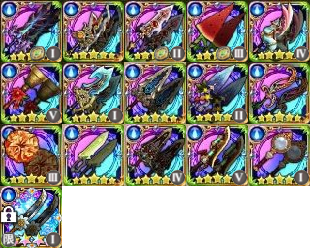
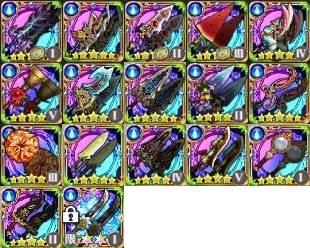
Update

Changed region(s): [[0.0, 0.7339, 0.4065, 1.0]]

diff --git a/docs/list-weapons.md b/docs/list-weapons.md
@@ -106,6 +106,7 @@ EQ | Name | Slot | Auto | Special
 <img src="https://raw.githubusercontent.com/caelumff/bdfeguides/master/icons/KNG2-13.jpg" width="60" alt="Sword"> | <a href="list-names.md#-bravely-default-praying-brage">Ruin</a> | 4 |  -  | Fire AoE Taunt<br><img src="https://caelum.s-ul.eu/7tZLFGPP.png" width="25" alt="Slot Effect"> Debuff Extend<br>
 <img src="https://raw.githubusercontent.com/caelumff/bdfeguides/master/icons/KNG2-14.jpg" width="60" alt="Sword"> | <a href="list-names.md#-steampunk">Antique</a> | 5 | Row Buff<br> | Mono Phalanx 3<br><img src="https://caelum.s-ul.eu/7tZLFGPP.png" width="25" alt="Slot Effect"> Testudo 1<br>
 <img src="https://raw.githubusercontent.com/caelumff/bdfeguides/master/icons/KNG2-15.jpg" width="60" alt="Sword"> | <a href="list-names.md#-detective">Detective</a> | 1 |  -  | Command 2<br>Aggro<br><img src="https://caelum.s-ul.eu/7tZLFGPP.png" width="25" alt="Slot Effect"> Saving 1<br>
+<img src="https://raw.githubusercontent.com/caelumff/bdfeguides/master/icons/KNG2-16.jpg" width="60" alt="Sword"> | <a href="list-names.md#-one-thousand-and-one-nights">One Thousand and One Nights</a> | 2 |  -  | Mono Regen 3<br>Water Reload<br><img src="https://caelum.s-ul.eu/7tZLFGPP.png" width="25" alt="Slot Effect"> Phalanx 1<br>
 <img src="https://raw.githubusercontent.com/caelumff/bdfeguides/master/icons/Valkyrie1.jpg" width="60" alt="Sword"> | **[LIMITED]** <a href="list-names.md#-valkyrie-profile">Valkyrie</a> | 1 |  -  | Phalanx 1<br>Allies Aggro<br>
 
 ## <img src="https://caelum.s-ul.eu/hLKNs6KH.png" width="25" alt="Earth"> Earth Swords
@@ -167,7 +168,7 @@ EQ | Name | Slot | Auto | Special
 <img src="https://raw.githubusercontent.com/caelumff/bdfeguides/master/icons/BLM1-11.jpg" width="60" alt="Rod"> | <a href="list-names.md#-japan-folklore">Turtle</a> | 3 |  -  | Magic Barrier<br>Limit Break 1<br>
 <img src="https://raw.githubusercontent.com/caelumff/bdfeguides/master/icons/BLM1-12.jpg" width="60" alt="Rod"> | <a href="list-names.md#-lotus">Lotus</a> | 4 | AoE<br> | 3 Hit<br>Nuke<br>Critical 2<br>
 <img src="https://raw.githubusercontent.com/caelumff/bdfeguides/master/icons/BLM1-13.jpg" width="60" alt="Rod"> | <a href="list-names.md#-retro-modern">Soda</a> | 5 |  -  | Empower 2<br><img src="https://caelum.s-ul.eu/7tZLFGPP.png" width="25" alt="Slot Effect"> Limit Break 1<br>
-<img src="https://raw.githubusercontent.com/caelumff/bdfeguides/master/icons/BLM1-14.jpg" width="60" alt="Rod"> | <a href="list-names.md#-eastern-mystery">Onmyouji</a> | 1 |  -  | Limit Break 3<br>Reload Minus<br><img src="https://caelum.s-ul.eu/7tZLFGPP.png" width="25" alt="Slot Effect"> Critical 1<br>
+<img src="https://raw.githubusercontent.com/caelumff/bdfeguides/master/icons/BLM1-14.jpg" width="60" alt="Rod"> | <a href="list-names.md#-eastern-mystery">Onmyouji</a> | 1 | Buff<br> | Limit Break 3<br>Reload Minus<br><img src="https://caelum.s-ul.eu/7tZLFGPP.png" width="25" alt="Slot Effect"> Critical 1<br>
 <img src="https://raw.githubusercontent.com/caelumff/bdfeguides/master/icons/Rose2.jpg" width="60" alt="Rod"> | **[LIMITED]** <a href="list-names.md#-rose">Rose</a> | 0 |  -  | Magic Barrier<br>
 <img src="https://raw.githubusercontent.com/caelumff/bdfeguides/master/icons/Fairy2.jpg" width="60" alt="Rod"> | **[LIMITED]** <a href="list-names.md#-1st-anniversary">Fairy</a> | 1 | Buff<br> | Critical 2<br>Magic Barrier<br>
 
@@ -190,6 +191,7 @@ EQ | Name | Slot | Auto | Special
 <img src="https://raw.githubusercontent.com/caelumff/bdfeguides/master/icons/BLM2-13.jpg" width="60" alt="Rod"> | <a href="list-names.md#-bravely-default-praying-brage">Ruin</a> | 4 | AoE<br> | Limit Break 3<br>
 <img src="https://raw.githubusercontent.com/caelumff/bdfeguides/master/icons/BLM2-14.jpg" width="60" alt="Rod"> | <a href="list-names.md#-steampunk">Antique</a> | 5 | Buff<br> | AoE<br>Empower 2<br><img src="https://caelum.s-ul.eu/7tZLFGPP.png" width="25" alt="Slot Effect"> Limit Break 1<br>
 <img src="https://raw.githubusercontent.com/caelumff/bdfeguides/master/icons/BLM2-15.jpg" width="60" alt="Rod"> | <a href="list-names.md#-detective">Detective</a> | 1 |  -  | 3 Hit<br>Critical 3<br><img src="https://caelum.s-ul.eu/7tZLFGPP.png" width="25" alt="Slot Effect"> Critical 1<br>
+<img src="https://raw.githubusercontent.com/caelumff/bdfeguides/master/icons/BLM2-16.jpg" width="60" alt="Rod"> | <a href="list-names.md#-one-thousand-and-one-nights">One Thousand and One Nights</a> | 2 |  -  | 3 Hit<br>MA/MD<br><img src="https://caelum.s-ul.eu/7tZLFGPP.png" width="25" alt="Slot Effect"> Limit Break 1<br>
 <img src="https://raw.githubusercontent.com/caelumff/bdfeguides/master/icons/Valkyrie2.jpg" width="60" alt="Rod"> | **[LIMITED]** <a href="list-names.md#-valkyrie-profile">Valkyrie</a> | 1 | AoE<br> | Rapid DPS<br>
 
 ## <img src="https://caelum.s-ul.eu/hLKNs6KH.png" width="25" alt="Earth"> Earth Rods
@@ -251,7 +253,7 @@ EQ | Name | Slot | Auto | Special
 <img src="https://raw.githubusercontent.com/caelumff/bdfeguides/master/icons/WHM1-11.jpg" width="60" alt="Book"> | <a href="list-names.md#-japan-folklore">Tamatebako</a> | 3 | Buff<br> | Haste 2<br>Cleanse<br>
 <img src="https://raw.githubusercontent.com/caelumff/bdfeguides/master/icons/WHM1-12.jpg" width="60" alt="Book"> | <a href="list-names.md#-lotus">Lotus</a> | 4 |  -  | 2 Row Heal<br>Mono Revive<br><img src="https://caelum.s-ul.eu/7tZLFGPP.png" width="25" alt="Slot Effect"> BP Recovery<br>
 <img src="https://raw.githubusercontent.com/caelumff/bdfeguides/master/icons/WHM1-13.jpg" width="60" alt="Book"> | <a href="list-names.md#-retro-modern">Coffee</a> | 5 |  -  | Heal<br>PA/PD/MA/MD Up<br><img src="https://caelum.s-ul.eu/7tZLFGPP.png" width="25" alt="Slot Effect"> Mind 1<br>
-<img src="https://raw.githubusercontent.com/caelumff/bdfeguides/master/icons/WHM1-14.jpg" width="60" alt="Book"> | <a href="list-names.md#-eastern-mystery">Onmyouji</a> | 1 |  -  | Mono Brave 2<br>Quick 2<br><img src="https://caelum.s-ul.eu/7tZLFGPP.png" width="25" alt="Slot Effect"> Self Proud 1<br>
+<img src="https://raw.githubusercontent.com/caelumff/bdfeguides/master/icons/WHM1-14.jpg" width="60" alt="Book"> | <a href="list-names.md#-eastern-mystery">Onmyouji</a> | 1 | 2 Row<br> | Mono Brave 2<br>Quick 2<br><img src="https://caelum.s-ul.eu/7tZLFGPP.png" width="25" alt="Slot Effect"> Self Proud 1<br>
 <img src="https://raw.githubusercontent.com/caelumff/bdfeguides/master/icons/Rose3.jpg" width="60" alt="Book"> | **[LIMITED]** <a href="list-names.md#-rose">Rose</a> | 0 | Attack<br> | Heal Area<br>
 <img src="https://raw.githubusercontent.com/caelumff/bdfeguides/master/icons/Fairy3.jpg" width="60" alt="Book"> | **[LIMITED]** <a href="list-names.md#-1st-anniversary">Fairy</a> | 1 |  -  | Heal<br>Cleanse<br>BP +<br>
 
@@ -273,7 +275,8 @@ EQ | Name | Slot | Auto | Special
 <img src="https://raw.githubusercontent.com/caelumff/bdfeguides/master/icons/WHM2-12.jpg" width="60" alt="Book"> | <a href="list-names.md#-sergeant-keroro">Space Army</a> | 0 |  -  | Heal<br>Mono Default 3<br>
 <img src="https://raw.githubusercontent.com/caelumff/bdfeguides/master/icons/WHM2-13.jpg" width="60" alt="Book"> | <a href="list-names.md#-bravely-default-praying-brage">Ruin</a> | 4 | AoE<br>Attack<br> | AoE Attack<br>Mono Brave/Default 1<br><img src="https://caelum.s-ul.eu/7tZLFGPP.png" width="25" alt="Slot Effect"> BP Recovery<br>
 <img src="https://raw.githubusercontent.com/caelumff/bdfeguides/master/icons/WHM2-14.jpg" width="60" alt="Book"> | <a href="list-names.md#-steampunk">Antique</a> | 5 |  -  | 2 Row Heal<br>Mono Brave 3<br><img src="https://caelum.s-ul.eu/7tZLFGPP.png" width="25" alt="Slot Effect"> Mind 1<br>
-<img src="https://raw.githubusercontent.com/caelumff/bdfeguides/master/icons/WHM2-15.jpg" width="60" alt="Book"> | <a href="list-names.md#-detective">Detective</a> | 1 | Attack<br> | BP Recovery<br>Haste 1<br><img src="https://caelum.s-ul.eu/7tZLFGPP.png" width="25" alt="Slot Effect"> Self Proud 1<br>
+<img src="https://raw.githubusercontent.com/caelumff/bdfeguides/master/icons/WHM2-15.jpg" width="60" alt="Book"> | <a href="list-names.md#-detective">Detective</a> | 1 | Attack<br> | Heal<br>BP Recovery<br>Haste 1<br><img src="https://caelum.s-ul.eu/7tZLFGPP.png" width="25" alt="Slot Effect"> Self Proud 1<br>
+<img src="https://raw.githubusercontent.com/caelumff/bdfeguides/master/icons/WHM2-16.jpg" width="60" alt="Book"> | <a href="list-names.md#-one-thousand-and-one-nights">One Thousand and One Nights</a> | 2 | Buff<br> | Heal<br>Enhance Area 2<br><img src="https://caelum.s-ul.eu/7tZLFGPP.png" width="25" alt="Slot Effect"> Brave 1<br>
 <img src="https://raw.githubusercontent.com/caelumff/bdfeguides/master/icons/Valkyrie3.jpg" width="60" alt="Book"> | **[LIMITED]** <a href="list-names.md#-valkyrie-profile">Valkyrie</a> | 1 |  -  | Heal<br>Revive<br>Heal Area<br>
 
 ## <img src="https://caelum.s-ul.eu/hLKNs6KH.png" width="25" alt="Earth"> Earth Books
@@ -294,7 +297,7 @@ EQ | Name | Slot | Auto | Special
 <img src="https://raw.githubusercontent.com/caelumff/bdfeguides/master/icons/WHM3-12.jpg" width="60" alt="Book"> | <a href="list-names.md#-christmas-2018">Blessing</a> | 4 |  -  | 2 Row Heal<br>BP Recovery<br>
 <img src="https://raw.githubusercontent.com/caelumff/bdfeguides/master/icons/WHM3-13.jpg" width="60" alt="Book"> | <a href="list-names.md#-danmachi">Heavenly</a> | 5 | Attack<br> | Heal<br>Cleanse<br>Default 2<br><img src="https://caelum.s-ul.eu/7tZLFGPP.png" width="25" alt="Slot Effect"> Mind 1<br>
 <img src="https://raw.githubusercontent.com/caelumff/bdfeguides/master/icons/WHM3-14.jpg" width="60" alt="Book"> | <a href="list-names.md#-golden">Golden</a> | 1 | Attack<br> | Heal<br>Enhance Area 2<br><img src="https://caelum.s-ul.eu/7tZLFGPP.png" width="25" alt="Slot Effect"> Self Proud 1<br>
-<img src="https://raw.githubusercontent.com/caelumff/bdfeguides/master/icons/WHM3-15.jpg" width="60" alt="Book"> | <a href="list-names.md#-sangoku">Sangoku</a> | 2 |  -  | Mono Default 3<br>Quick 2<br><img src="https://caelum.s-ul.eu/7tZLFGPP.png" width="25" alt="Slot Effect"> Self Default 1<br>
+<img src="https://raw.githubusercontent.com/caelumff/bdfeguides/master/icons/WHM3-15.jpg" width="60" alt="Book"> | <a href="list-names.md#-sangoku">Sangoku</a> | 2 | Attack<br> | Mono Default 3<br>Quick 2<br><img src="https://caelum.s-ul.eu/7tZLFGPP.png" width="25" alt="Slot Effect"> Self Default 1<br>
 
 ## <img src="https://caelum.s-ul.eu/d7KNBOoa.png" width="25" alt="Wind"> Wind Books
 
@@ -313,7 +316,7 @@ EQ | Name | Slot | Auto | Special
 <img src="https://raw.githubusercontent.com/caelumff/bdfeguides/master/icons/WHM4-11.jpg" width="60" alt="Book"> | <a href="list-names.md#-grimms-notes-repage">Legend</a> | 0 | 2 Row<br> | Heal<br>PA/PD/MA/MD Up<br>
 <img src="https://raw.githubusercontent.com/caelumff/bdfeguides/master/icons/WHM4-12.jpg" width="60" alt="Book"> | <a href="list-names.md#-valentines-2019">Choco</a> | 4 | Buff<br> | 2 Row<br>HP/BP Up<br><img src="https://caelum.s-ul.eu/7tZLFGPP.png" width="25" alt="Slot Effect"> BP Recovery<br>
 <img src="https://raw.githubusercontent.com/caelumff/bdfeguides/master/icons/WHM4-13.jpg" width="60" alt="Book"> | <a href="list-names.md#-dress-up">Dress Up</a> | 5 | Attack<br> | Attack<br>Mono Brave/Default 1<br>Mono Quick 2<br>
-<img src="https://raw.githubusercontent.com/caelumff/bdfeguides/master/icons/WHM4-14.jpg" width="60" alt="Book"> | <a href="list-names.md#-wonderland">Wonderland</a> | 1 |  -  | 2 Row Heal<br>Mono Revive<br>Mono PA/PD/SP Up<br><img src="https://caelum.s-ul.eu/7tZLFGPP.png" width="25" alt="Slot Effect"> Self Proud 1<br>
+<img src="https://raw.githubusercontent.com/caelumff/bdfeguides/master/icons/WHM4-14.jpg" width="60" alt="Book"> | <a href="list-names.md#-wonderland">Wonderland</a> | 1 | 2 Row<br> | 2 Row Heal<br>Mono Revive<br>Mono PA/PD/SP Up<br><img src="https://caelum.s-ul.eu/7tZLFGPP.png" width="25" alt="Slot Effect"> Self Proud 1<br>
 <img src="https://raw.githubusercontent.com/caelumff/bdfeguides/master/icons/Chocobo3.jpg" width="60" alt="Book"> | **[LIMITED]** <a href="list-names.md#-final-fantasy-brave-exvius">Chocobo</a> | 1 |  -  | Heal<br>Brave 1<br>Default 1<br>
 <img src="https://raw.githubusercontent.com/caelumff/bdfeguides/master/icons/Rinne3.jpg" width="60" alt="Book"> | **[LIMITED]** <a href="list-names.md#-2nd-anniversary">Rinne</a> | 0 |  -  | Heal<br>Brave 2<br>BP Recovery<br>
 
@@ -348,7 +351,7 @@ EQ | Name | Slot | Auto | Special
 <img src="https://raw.githubusercontent.com/caelumff/bdfeguides/master/icons/THF2-3.jpg" width="60" alt="Dagger"> | <a href="list-names.md#-evil-eye">Evil Eye</a> | 2 |  -  | Charge<br><img src="https://caelum.s-ul.eu/1IPYTuvl.JPG" width="25" alt="Legend Coin"> PA Up<br>
 <img src="https://raw.githubusercontent.com/caelumff/bdfeguides/master/icons/THF2-4.jpg" width="60" alt="Dagger"> | <a href="list-names.md#-summer-2017">Watermelon</a> | 3 |  -  | Dodge 2<br><img src="https://caelum.s-ul.eu/1IPYTuvl.JPG" width="25" alt="Legend Coin"> PA Up<br>
 <img src="https://raw.githubusercontent.com/caelumff/bdfeguides/master/icons/THF2-5.jpg" width="60" alt="Dagger"> | <a href="list-names.md#-animal">Squirrel</a> | 4 | 3 Hit<br> | Shadow 2<br>
-<img src="https://raw.githubusercontent.com/caelumff/bdfeguides/master/icons/THF2-6.jpg" width="60" alt="Dagger"> | <a href="list-names.md#-christmas-2017">Bell</a> | 5 | Fast<br> | Assault 1<br>
+<img src="https://raw.githubusercontent.com/caelumff/bdfeguides/master/icons/THF2-6.jpg" width="60" alt="Dagger"> | <a href="list-names.md#-christmas-2017">Bell</a> | 5 | Fast<br> | Assault 1<br><img src="https://caelum.s-ul.eu/7tZLFGPP.png" width="25" alt="Slot Effect"> Shadow 1<br>
 <img src="https://raw.githubusercontent.com/caelumff/bdfeguides/master/icons/THF2-7.jpg" width="60" alt="Dagger"> | <a href="list-names.md#-compass">Compass</a> | 1 | 3 Hit<br> | Shadow 1<br>Assault 1<br><img src="https://caelum.s-ul.eu/7tZLFGPP.png" width="25" alt="Slot Effect"> Quick 1<br>
 <img src="https://raw.githubusercontent.com/caelumff/bdfeguides/master/icons/THF2-8.jpg" width="60" alt="Dagger"> | <a href="list-names.md#-fullmetal-alchemist">Anchemical</a> | 0 |  -  | Shadow 2<br>Quick 2<br>
 <img src="https://raw.githubusercontent.com/caelumff/bdfeguides/master/icons/THF2-9.jpg" width="60" alt="Dagger"> | <a href="list-names.md#-tanabata">Stardust</a> | 2 | Fast 2 Hit<br>Aim 100%<br> | Dodge 2<br>Assault 2<br>
@@ -358,6 +361,7 @@ EQ | Name | Slot | Auto | Special
 <img src="https://raw.githubusercontent.com/caelumff/bdfeguides/master/icons/THF2-13.jpg" width="60" alt="Dagger"> | <a href="list-names.md#-bravely-default-praying-brage">Ruin</a> | 4 | 3 Hit<br>AWK Boost<br> | Row<br>Shadow 1<br>Assault 1<br><img src="https://caelum.s-ul.eu/7tZLFGPP.png" width="25" alt="Slot Effect"> Row Quick 1<br>
 <img src="https://raw.githubusercontent.com/caelumff/bdfeguides/master/icons/THF2-14.jpg" width="60" alt="Dagger"> | <a href="list-names.md#-steampunk">Antique</a> | 5 |  -  | Row Assault 3<br><img src="https://caelum.s-ul.eu/7tZLFGPP.png" width="25" alt="Slot Effect"> Shadow 1<br>
 <img src="https://raw.githubusercontent.com/caelumff/bdfeguides/master/icons/THF2-15.jpg" width="60" alt="Dagger"> | <a href="list-names.md#-detective">Detective</a> | 1 |  -  | Shadow 3<br><img src="https://caelum.s-ul.eu/7tZLFGPP.png" width="25" alt="Slot Effect"> Assault 1<br>
+<img src="https://raw.githubusercontent.com/caelumff/bdfeguides/master/icons/THF2-16.jpg" width="60" alt="Dagger"> | <a href="list-names.md#-one-thousand-and-one-nights">One Thousand and One Nights</a> | 2 | Fast 2 Hit<br> | Dagger Stance<br>
 <img src="https://raw.githubusercontent.com/caelumff/bdfeguides/master/icons/Valkyrie4.jpg" width="60" alt="Dagger"> | **[LIMITED]** <a href="list-names.md#-valkyrie-profile">Valkyrie</a> | 1 |  -  | Nuke<br>Quick 1<br>
 
 ## <img src="https://caelum.s-ul.eu/hLKNs6KH.png" width="25" alt="Earth"> Earth Daggers
@@ -397,7 +401,7 @@ EQ | Name | Slot | Auto | Special
 <img src="https://raw.githubusercontent.com/caelumff/bdfeguides/master/icons/THF4-11.jpg" width="60" alt="Dagger"> | <a href="list-names.md#-grimms-notes-repage">Legend</a> | 0 |  -  | Focus 2<br>
 <img src="https://raw.githubusercontent.com/caelumff/bdfeguides/master/icons/THF4-12.jpg" width="60" alt="Dagger"> | <a href="list-names.md#-valentines-2019">Fondue</a> | 4 | Fast 2 Hit<br>Aim 100%<br>AWK Boost<br> | Dagger Stance<br><img src="https://caelum.s-ul.eu/7tZLFGPP.png" width="25" alt="Slot Effect"> Row Quick 1<br>
 <img src="https://raw.githubusercontent.com/caelumff/bdfeguides/master/icons/THF4-13.jpg" width="60" alt="Dagger"> | <a href="list-names.md#-dress-up">Dress Up</a> | 5 |  -  | Assault 3<br>Cleanse<br><img src="https://caelum.s-ul.eu/7tZLFGPP.png" width="25" alt="Slot Effect"> Shadow 1<br>
-<img src="https://raw.githubusercontent.com/caelumff/bdfeguides/master/icons/THF4-14.jpg" width="60" alt="Dagger"> | <a href="list-names.md#-wonderland">Wonderland</a> | 1 |  -  | 5 Hit Nuke<br>PA/PD Up<br><img src="https://caelum.s-ul.eu/7tZLFGPP.png" width="25" alt="Slot Effect"> Assault 1<br>
+<img src="https://raw.githubusercontent.com/caelumff/bdfeguides/master/icons/THF4-14.jpg" width="60" alt="Dagger"> | <a href="list-names.md#-wonderland">Wonderland</a> | 1 | 3 Hit<br> | 5 Hit Nuke<br>PA/PD Up<br><img src="https://caelum.s-ul.eu/7tZLFGPP.png" width="25" alt="Slot Effect"> Assault 1<br>
 <img src="https://raw.githubusercontent.com/caelumff/bdfeguides/master/icons/Chocobo4.jpg" width="60" alt="Dagger"> | **[LIMITED]** <a href="list-names.md#-final-fantasy-brave-exvius">Chocobo</a> | 1 |  -  | Shadow 1<br>
 <img src="https://raw.githubusercontent.com/caelumff/bdfeguides/master/icons/Rinne4.jpg" width="60" alt="Dagger"> | **[LIMITED]** <a href="list-names.md#-2nd-anniversary">Rinne</a> | 0 |  -  | Dodge 3<br>
 
@@ -442,6 +446,7 @@ EQ | Name | Slot | Auto | Special
 <img src="https://raw.githubusercontent.com/caelumff/bdfeguides/master/icons/RNG2-13.jpg" width="60" alt="Bow"> | <a href="list-names.md#-bravely-default-praying-brage">Ruin</a> | 4 |  -  | Water Chaser 2<br><img src="https://caelum.s-ul.eu/7tZLFGPP.png" width="25" alt="Slot Effect"> Debuff Extend<br>
 <img src="https://raw.githubusercontent.com/caelumff/bdfeguides/master/icons/RNG2-14.jpg" width="60" alt="Bow"> | <a href="list-names.md#-steampunk">Antique</a> | 5 | AoE<br> | AoE<br>Bleed2<br>Poison to Damage<br><img src="https://caelum.s-ul.eu/7tZLFGPP.png" width="25" alt="Slot Effect"> Hawkeye 1<br>
 <img src="https://raw.githubusercontent.com/caelumff/bdfeguides/master/icons/RNG2-15.jpg" width="60" alt="Bow"> | <a href="list-names.md#-detective">Detective</a> | 1 | Buff<br> | AoE<br>PD/MD Down<br>Poison<br><img src="https://caelum.s-ul.eu/7tZLFGPP.png" width="25" alt="Slot Effect"> Slow 1<br>
+<img src="https://raw.githubusercontent.com/caelumff/bdfeguides/master/icons/RNG2-16.jpg" width="60" alt="Bow"> | <a href="list-names.md#-one-thousand-and-one-nights">One Thousand and One Nights</a> | 2 |  -  | AoE<br>Aim/Avo/CR/CP/SP Down<br>Hawkeye 2<br><img src="https://caelum.s-ul.eu/7tZLFGPP.png" width="25" alt="Slot Effect"> Slow 1<br>
 <img src="https://raw.githubusercontent.com/caelumff/bdfeguides/master/icons/Valkyrie5.jpg" width="60" alt="Bow"> | **[LIMITED]** <a href="list-names.md#-valkyrie-profile">Valkyrie</a> | 1 |  -  | Slowcast 1<br>Poison Up 1<br>
 
 ## <img src="https://caelum.s-ul.eu/hLKNs6KH.png" width="25" alt="Earth"> Earth Bows

diff --git a/docs/list-weapons-jp.md b/docs/list-weapons-jp.md
@@ -49,6 +49,7 @@
 <img src="https://raw.githubusercontent.com/caelumff/bdfeguides/master/icons/KNG2-13.jpg" width="60" alt="大剣"> | ルインソード | IV | - | 対火全体挑発<br><img src="https://caelum.s-ul.eu/7tZLFGPP.png" width="25" alt="枠適正"> デバフ延長<br>
 <img src="https://raw.githubusercontent.com/caelumff/bdfeguides/master/icons/KNG2-14.jpg" width="60" alt="大剣"> | 古ノ退剣 | V | 列バフ<br> | 染めファランクス III<br><img src="https://caelum.s-ul.eu/7tZLFGPP.png" width="25" alt="枠適正"> テストゥド I<br>
 <img src="https://raw.githubusercontent.com/caelumff/bdfeguides/master/icons/KNG2-15.jpg" width="60" alt="大剣"> | 正義の大剣 | I | - | 号令 II<br>敵視<br><img src="https://caelum.s-ul.eu/7tZLFGPP.png" width="25" alt="枠適正"> セービング I<br>
+<img src="https://raw.githubusercontent.com/caelumff/bdfeguides/master/icons/KNG2-16.jpg" width="60" alt="大剣"> | 三願の大剣 | II | - | 染めリジェネ III<br>水Reload<br><img src="https://caelum.s-ul.eu/7tZLFGPP.png" width="25" alt="枠適正"> ファランクス I<br>
 <img src="https://raw.githubusercontent.com/caelumff/bdfeguides/master/icons/Valkyrie1.jpg" width="60" alt="大剣"> | **[期間限定]** 魔剣ダインスレイヴ | I | - | ファランクス I<br>自分以外敵視<br>
 
 ## <img src="https://caelum.s-ul.eu/hLKNs6KH.png" width="25" alt="土"> 土大剣
@@ -110,7 +111,7 @@
 <img src="https://raw.githubusercontent.com/caelumff/bdfeguides/master/icons/BLM1-11.jpg" width="60" alt="ロッド"> | 竜宮の海亀 | III | - | マジックバリア<br>リミブレ I<br>
 <img src="https://raw.githubusercontent.com/caelumff/bdfeguides/master/icons/BLM1-12.jpg" width="60" alt="ロッド"> | 蓮の祈提灯 | IV | 全体<br> | 三段<br>防御無視<br>会心 II<br>
 <img src="https://raw.githubusercontent.com/caelumff/bdfeguides/master/icons/BLM1-13.jpg" width="60" alt="ロッド"> | ご注文のくりいむそぉだ | V | - | エンパワー II<br><img src="https://caelum.s-ul.eu/7tZLFGPP.png" width="25" alt="枠適正"> リミブレ I<br>
-<img src="https://raw.githubusercontent.com/caelumff/bdfeguides/master/icons/BLM1-14.jpg" width="60" alt="ロッド"> | 陰祓いの金錫杖 | I | - | リミブレ III<br>リロ減少<br><img src="https://caelum.s-ul.eu/7tZLFGPP.png" width="25" alt="枠適正"> 会心 I<br>
+<img src="https://raw.githubusercontent.com/caelumff/bdfeguides/master/icons/BLM1-14.jpg" width="60" alt="ロッド"> | 陰祓いの金錫杖 | I | バフ<br> | リミブレ III<br>リロ減少<br><img src="https://caelum.s-ul.eu/7tZLFGPP.png" width="25" alt="枠適正"> 会心 I<br>
 <img src="https://raw.githubusercontent.com/caelumff/bdfeguides/master/icons/Rose2.jpg" width="60" alt="ロッド"> | **[期間限定]** 情熱の花束 | 無 | - | マジックバリア<br>
 <img src="https://raw.githubusercontent.com/caelumff/bdfeguides/master/icons/Fairy2.jpg" width="60" alt="ロッド"> | **[期間限定]** フェアリーズ・セプター | I | バフ<br> | 会心 II<br>マジックバリア<br>
 
@@ -133,6 +134,7 @@
 <img src="https://raw.githubusercontent.com/caelumff/bdfeguides/master/icons/BLM2-13.jpg" width="60" alt="ロッド"> | ルインロッド | IV | 全体<br> | リミブレ III<br>
 <img src="https://raw.githubusercontent.com/caelumff/bdfeguides/master/icons/BLM2-14.jpg" width="60" alt="ロッド"> | 古ノ核 | V | バフ<br> | 全体<br>エンパワー II<br><img src="https://caelum.s-ul.eu/7tZLFGPP.png" width="25" alt="枠適正"> リミブレ I<br>
 <img src="https://raw.githubusercontent.com/caelumff/bdfeguides/master/icons/BLM2-15.jpg" width="60" alt="ロッド"> | 真相解明のパイプ | I | - | 三段<br>会心 III<br><img src="https://caelum.s-ul.eu/7tZLFGPP.png" width="25" alt="枠適正"> 会心 I<br>
+<img src="https://raw.githubusercontent.com/caelumff/bdfeguides/master/icons/BLM2-16.jpg" width="60" alt="ロッド"> | 三願の杖 | II | - | 三段<br>魔攻魔防<br><img src="https://caelum.s-ul.eu/7tZLFGPP.png" width="25" alt="枠適正"> リミブレ I<br>
 <img src="https://raw.githubusercontent.com/caelumff/bdfeguides/master/icons/Valkyrie2.jpg" width="60" alt="ロッド"> | **[期間限定]** 聖杖ミリオンテラー | I | 全体<br> | 1秒キャスト<br>
 
 ## <img src="https://caelum.s-ul.eu/hLKNs6KH.png" width="25" alt="土"> 土ロッド
@@ -194,7 +196,7 @@
 <img src="https://raw.githubusercontent.com/caelumff/bdfeguides/master/icons/WHM1-11.jpg" width="60" alt="ブック"> | 竜宮の玉手箱 | III | バフ<br> | ヘイスト II<br>デバフ全解除<br>
 <img src="https://raw.githubusercontent.com/caelumff/bdfeguides/master/icons/WHM1-12.jpg" width="60" alt="ブック"> | 蓮の烈火重 | IV | - | 二列回復<br>染め蘇生<br><img src="https://caelum.s-ul.eu/7tZLFGPP.png" width="25" alt="枠適正"> BP回復<br>
 <img src="https://raw.githubusercontent.com/caelumff/bdfeguides/master/icons/WHM1-13.jpg" width="60" alt="ブック"> | 本日の御品書 | V | - | 回復<br>物攻物防魔攻魔防アップ<br><img src="https://caelum.s-ul.eu/7tZLFGPP.png" width="25" alt="枠適正"> マインド I<br>
-<img src="https://raw.githubusercontent.com/caelumff/bdfeguides/master/icons/WHM1-14.jpg" width="60" alt="ブック"> | 封魔の絵巻 | I | - | 染めブレイブ II<br>クイック II<br><img src="https://caelum.s-ul.eu/7tZLFGPP.png" width="25" alt="枠適正"> 自身プラウド I<br>
+<img src="https://raw.githubusercontent.com/caelumff/bdfeguides/master/icons/WHM1-14.jpg" width="60" alt="ブック"> | 封魔の絵巻 | I | 二列<br> | 染めブレイブ II<br>クイック II<br><img src="https://caelum.s-ul.eu/7tZLFGPP.png" width="25" alt="枠適正"> 自身プラウド I<br>
 <img src="https://raw.githubusercontent.com/caelumff/bdfeguides/master/icons/Rose3.jpg" width="60" alt="ブック"> | **[期間限定]** 情熱の愛書 | 無 | 攻撃<br> | ヒールエリア<br>
 <img src="https://raw.githubusercontent.com/caelumff/bdfeguides/master/icons/Fairy3.jpg" width="60" alt="ブック"> | **[期間限定]** フェアリーズ・グリモア | I | - | 回復<br>デバフ全解除<br>BP +<br>
 
@@ -216,7 +218,8 @@
 <img src="https://raw.githubusercontent.com/caelumff/bdfeguides/master/icons/WHM2-12.jpg" width="60" alt="ブック"> | スペースデッドストック | 無 | - | 回復<br>染めデフォルト III<br>
 <img src="https://raw.githubusercontent.com/caelumff/bdfeguides/master/icons/WHM2-13.jpg" width="60" alt="ブック"> | ルインブック | IV | 全体<br>攻撃<br> | 全体攻撃<br>染めブレイブデフォルト I<br><img src="https://caelum.s-ul.eu/7tZLFGPP.png" width="25" alt="枠適正"> BP回復<br>
 <img src="https://raw.githubusercontent.com/caelumff/bdfeguides/master/icons/WHM2-14.jpg" width="60" alt="ブック"> | イニシエの設計図 | V | - | 二列回復<br>染めブレイブ III<br><img src="https://caelum.s-ul.eu/7tZLFGPP.png" width="25" alt="枠適正"> マインド I<br>
-<img src="https://raw.githubusercontent.com/caelumff/bdfeguides/master/icons/WHM2-15.jpg" width="60" alt="ブック"> | 名探偵の秘密道具 | I | 攻撃<br> | BP回復<br>ヘイスト I<br><img src="https://caelum.s-ul.eu/7tZLFGPP.png" width="25" alt="枠適正"> 自身プラウド I<br>
+<img src="https://raw.githubusercontent.com/caelumff/bdfeguides/master/icons/WHM2-15.jpg" width="60" alt="ブック"> | 名探偵の秘密道具 | I | 攻撃<br> | 回復<br>BP回復<br>ヘイスト I<br><img src="https://caelum.s-ul.eu/7tZLFGPP.png" width="25" alt="枠適正"> 自身プラウド I<br>
+<img src="https://raw.githubusercontent.com/caelumff/bdfeguides/master/icons/WHM2-16.jpg" width="60" alt="ブック"> | 三願の物語 | II | バフ<br> | 回復<br>エンハンスエリア II<br><img src="https://caelum.s-ul.eu/7tZLFGPP.png" width="25" alt="枠適正"> ブレイブ I<br>
 <img src="https://raw.githubusercontent.com/caelumff/bdfeguides/master/icons/Valkyrie3.jpg" width="60" alt="ブック"> | **[期間限定]** 禁呪の書 | I | - | 回復<br>蘇生<br>ヒールエリア<br>
 
 ## <img src="https://caelum.s-ul.eu/hLKNs6KH.png" width="25" alt="土"> 土ブック
@@ -237,7 +240,7 @@
 <img src="https://raw.githubusercontent.com/caelumff/bdfeguides/master/icons/WHM3-12.jpg" width="60" alt="ブック"> | 祝福の聖歌 | IV | - | 二列回復<br>BP回復<br>
 <img src="https://raw.githubusercontent.com/caelumff/bdfeguides/master/icons/WHM3-13.jpg" width="60" alt="ブック"> | ヘブンリーレコード | V | 攻撃<br> | 回復<br>デバフ全解除<br>デフォルト II<br><img src="https://caelum.s-ul.eu/7tZLFGPP.png" width="25" alt="枠適正"> マインド I<br>
 <img src="https://raw.githubusercontent.com/caelumff/bdfeguides/master/icons/WHM3-14.jpg" width="60" alt="ブック"> | 黄金のパピルス | I | 攻撃<br> | 回復<br>エンハンスエリア II<br><img src="https://caelum.s-ul.eu/7tZLFGPP.png" width="25" alt="枠適正"> 自身プラウド I<br>
-<img src="https://raw.githubusercontent.com/caelumff/bdfeguides/master/icons/WHM3-15.jpg" width="60" alt="ブック"> | 軍師の兵法書 | II | - | 染めデフォルト III<br>クイック II<br><img src="https://caelum.s-ul.eu/7tZLFGPP.png" width="25" alt="枠適正"> 自身デフォルト I<br>
+<img src="https://raw.githubusercontent.com/caelumff/bdfeguides/master/icons/WHM3-15.jpg" width="60" alt="ブック"> | 軍師の兵法書 | II | 攻撃<br> | 染めデフォルト III<br>クイック II<br><img src="https://caelum.s-ul.eu/7tZLFGPP.png" width="25" alt="枠適正"> 自身デフォルト I<br>
 
 ## <img src="https://caelum.s-ul.eu/d7KNBOoa.png" width="25" alt="風"> 風ブック
 
@@ -256,7 +259,7 @@
 <img src="https://raw.githubusercontent.com/caelumff/bdfeguides/master/icons/WHM4-11.jpg" width="60" alt="ブック"> | レジェンドグリモア | 無 | 二列<br> | 回復<br>物攻物防魔攻魔防アップ<br>
 <img src="https://raw.githubusercontent.com/caelumff/bdfeguides/master/icons/WHM4-12.jpg" width="60" alt="ブック"> | チョコアソート | IV | バフ<br> | 二列<br>最大HP/BPアップ<br><img src="https://caelum.s-ul.eu/7tZLFGPP.png" width="25" alt="枠適正"> BP回復<br>
 <img src="https://raw.githubusercontent.com/caelumff/bdfeguides/master/icons/WHM4-13.jpg" width="60" alt="ブック"> | 創造の写本 | V | 攻撃<br> | 攻撃<br>染めブレイブデフォルト I<br>染めクイック II<br>
-<img src="https://raw.githubusercontent.com/caelumff/bdfeguides/master/icons/WHM4-14.jpg" width="60" alt="ブック"> | インワンダーランド | I | - | 二列回復<br>染め蘇生<br>染め物攻物防精神アップ<br><img src="https://caelum.s-ul.eu/7tZLFGPP.png" width="25" alt="枠適正"> 自身プラウド I<br>
+<img src="https://raw.githubusercontent.com/caelumff/bdfeguides/master/icons/WHM4-14.jpg" width="60" alt="ブック"> | インワンダーランド | I | 二列<br> | 二列回復<br>染め蘇生<br>染め物攻物防精神アップ<br><img src="https://caelum.s-ul.eu/7tZLFGPP.png" width="25" alt="枠適正"> 自身プラウド I<br>
 <img src="https://raw.githubusercontent.com/caelumff/bdfeguides/master/icons/Chocobo3.jpg" width="60" alt="ブック"> | **[期間限定]** チョコボメモリア | I | - | 回復<br>ブレイブ I<br>デフォルト I<br>
 <img src="https://raw.githubusercontent.com/caelumff/bdfeguides/master/icons/Rinne3.jpg" width="60" alt="ブック"> | **[期間限定]** リンネのキセキ | 無 | - | 回復<br>ブレイブ II<br>BP回復<br>
 
@@ -291,7 +294,7 @@
 <img src="https://raw.githubusercontent.com/caelumff/bdfeguides/master/icons/THF2-3.jpg" width="60" alt="双剣"> | 邪眼ケルクスス | II | - | チャージ<br><img src="https://caelum.s-ul.eu/1IPYTuvl.JPG" width="25" alt="レジェンドコイン"> 物攻アップ<br>
 <img src="https://raw.githubusercontent.com/caelumff/bdfeguides/master/icons/THF2-4.jpg" width="60" alt="双剣"> | 完熟スイカ | III | - | みかわし II<br><img src="https://caelum.s-ul.eu/1IPYTuvl.JPG" width="25" alt="レジェンドコイン"> 物攻アップ<br>
 <img src="https://raw.githubusercontent.com/caelumff/bdfeguides/master/icons/THF2-5.jpg" width="60" alt="双剣"> | 魔栗鼠イリエレール | IV | 三段<br> | シャドウ II<br>
-<img src="https://raw.githubusercontent.com/caelumff/bdfeguides/master/icons/THF2-6.jpg" width="60" alt="双剣"> | ベルズオブセイト | V | 速い<br> | アサルト I<br>
+<img src="https://raw.githubusercontent.com/caelumff/bdfeguides/master/icons/THF2-6.jpg" width="60" alt="双剣"> | ベルズオブセイト | V | 速い<br> | アサルト I<br><img src="https://caelum.s-ul.eu/7tZLFGPP.png" width="25" alt="枠適正"> シャドウ I<br>
 <img src="https://raw.githubusercontent.com/caelumff/bdfeguides/master/icons/THF2-7.jpg" width="60" alt="双剣"> | アクアフックソード | I | 三段<br> | シャドウ I<br>アサルト I<br><img src="https://caelum.s-ul.eu/7tZLFGPP.png" width="25" alt="枠適正"> クイック I<br>
 <img src="https://raw.githubusercontent.com/caelumff/bdfeguides/master/icons/THF2-8.jpg" width="60" alt="双剣"> | アンケミカルクロス | 無 | - | シャドウ II<br>クイック II<br>
 <img src="https://raw.githubusercontent.com/caelumff/bdfeguides/master/icons/THF2-9.jpg" width="60" alt="双剣"> | 星屑の天懐剣 | II | 速い二段<br>必中<br> | みかわし II<br>アサルト II<br>
@@ -301,6 +304,7 @@
 <img src="https://raw.githubusercontent.com/caelumff/bdfeguides/master/icons/THF2-13.jpg" width="60" alt="双剣"> | ルインブレイド | IV | 三段<br>覚醒威力<br> | 列<br>シャドウ I<br>アサルト I<br><img src="https://caelum.s-ul.eu/7tZLFGPP.png" width="25" alt="枠適正"> 列クイック I<br>
 <img src="https://raw.githubusercontent.com/caelumff/bdfeguides/master/icons/THF2-14.jpg" width="60" alt="双剣"> | 古ノ騒剣 | V | - | 列アサルト III<br><img src="https://caelum.s-ul.eu/7tZLFGPP.png" width="25" alt="枠適正"> シャドウ I<br>
 <img src="https://raw.githubusercontent.com/caelumff/bdfeguides/master/icons/THF2-15.jpg" width="60" alt="双剣"> | 真実追及のダブル―ぺ | I | - | シャドウ III<br><img src="https://caelum.s-ul.eu/7tZLFGPP.png" width="25" alt="枠適正"> アサルト I<br>
+<img src="https://raw.githubusercontent.com/caelumff/bdfeguides/master/icons/THF2-16.jpg" width="60" alt="双剣"> | 三願の双剣 | II | 速い二段<br> | 双剣の構え<br>
 <img src="https://raw.githubusercontent.com/caelumff/bdfeguides/master/icons/Valkyrie4.jpg" width="60" alt="双剣"> | **[期間限定]** 白麗の双剣 | I | - | 防御無視<br>クイック I<br>
 
 ## <img src="https://caelum.s-ul.eu/hLKNs6KH.png" width="25" alt="土"> 土双剣
@@ -340,7 +344,7 @@
 <img src="https://raw.githubusercontent.com/caelumff/bdfeguides/master/icons/THF4-11.jpg" width="60" alt="双剣"> | レジェンドナイフ | 無 | - | フォーカス II<br>
 <img src="https://raw.githubusercontent.com/caelumff/bdfeguides/master/icons/THF4-12.jpg" width="60" alt="双剣"> | アラザンチョコフォンデュ | IV | 速い二段<br>必中<br>覚醒威力<br> | 双剣の構え<br><img src="https://caelum.s-ul.eu/7tZLFGPP.png" width="25" alt="枠適正"> 列クイック I<br>
 <img src="https://raw.githubusercontent.com/caelumff/bdfeguides/master/icons/THF4-13.jpg" width="60" alt="双剣"> | 絢爛の双剣 | V | - | アサルト III<br>デバフ全解除<br><img src="https://caelum.s-ul.eu/7tZLFGPP.png" width="25" alt="枠適正"> シャドウ I<br>
-<img src="https://raw.githubusercontent.com/caelumff/bdfeguides/master/icons/THF4-14.jpg" width="60" alt="双剣"> | 案内人の手袋 | I | - | 五段 防御無視<br>物攻物防アップ<br><img src="https://caelum.s-ul.eu/7tZLFGPP.png" width="25" alt="枠適正"> アサルト I<br>
+<img src="https://raw.githubusercontent.com/caelumff/bdfeguides/master/icons/THF4-14.jpg" width="60" alt="双剣"> | 案内人の手袋 | I | 三段<br> | 五段 防御無視<br>物攻物防アップ<br><img src="https://caelum.s-ul.eu/7tZLFGPP.png" width="25" alt="枠適正"> アサルト I<br>
 <img src="https://raw.githubusercontent.com/caelumff/bdfeguides/master/icons/Chocobo4.jpg" width="60" alt="双剣"> | **[期間限定]** チョコボクロウ | I | - | シャドウ I<br>
 <img src="https://raw.githubusercontent.com/caelumff/bdfeguides/master/icons/Rinne4.jpg" width="60" alt="双剣"> | **[期間限定]** ナンデストウ | 無 | - | みかわし III<br>
 
@@ -385,6 +389,7 @@
 <img src="https://raw.githubusercontent.com/caelumff/bdfeguides/master/icons/RNG2-13.jpg" width="60" alt="弓"> | ルインボウ | IV | - | 水チェイサー II<br><img src="https://caelum.s-ul.eu/7tZLFGPP.png" width="25" alt="枠適正"> デバフ延長<br>
 <img src="https://raw.githubusercontent.com/caelumff/bdfeguides/master/icons/RNG2-14.jpg" width="60" alt="弓"> | 古ノ歯轟弓 | V | 全体<br> | 全体<br>ブリード<br>毒を追撃に<br><img src="https://caelum.s-ul.eu/7tZLFGPP.png" width="25" alt="枠適正"> ホークアイ I<br>
 <img src="https://raw.githubusercontent.com/caelumff/bdfeguides/master/icons/RNG2-15.jpg" width="60" alt="弓"> | 弓状手錠 | I | バフ<br> | 全体<br>物防魔防ダウン<br>Poison<br><img src="https://caelum.s-ul.eu/7tZLFGPP.png" width="25" alt="枠適正"> スロウ I<br>
+<img src="https://raw.githubusercontent.com/caelumff/bdfeguides/master/icons/RNG2-16.jpg" width="60" alt="弓"> | 三願の弓 | II | - | 全体<br>命中回避クリ率クリ威精神ダウン<br>ホークアイ II<br><img src="https://caelum.s-ul.eu/7tZLFGPP.png" width="25" alt="枠適正"> スロウ I<br>
 <img src="https://raw.githubusercontent.com/caelumff/bdfeguides/master/icons/Valkyrie5.jpg" width="60" alt="弓"> | **[期間限定]** 神弓シルヴァンボウ | I | - | スロウキャスト I<br>ポイズンアップ I<br>
 
 ## <img src="https://caelum.s-ul.eu/hLKNs6KH.png" width="25" alt="土"> 土弓

diff --git a/docs/list-names.md b/docs/list-names.md
@@ -47,7 +47,8 @@
 [Retro Modern](#-retro-modern) | [Bravely Default Praying Brage](#-bravely-default-praying-brage) | [Danmachi](#-danmachi) | [Dress Up](#-dress-up)
 [Eastern Mystery](#-eastern-mystery) | [Steampunk](#-steampunk) | [Golden](#-golden) | [Wonderland](#-wonderland)
 [Rose](#-rose) | [Detective](#-detective) | [Sangoku](#-sangoku) | [Final Fantasy Brave Exvius](#-final-fantasy-brave-exvius)
-[1st Anniversary](#-1st-anniversary) | [Valkyrie Profile](#-valkyrie-profile) | \- | [2nd Anniversary](#-2nd-anniversary)
+[1st Anniversary](#-1st-anniversary) | [One Thousand and One Nights](#-one-thousand-and-one-nights) | \- | [2nd Anniversary](#-2nd-anniversary)
+\- | [Valkyrie Profile](#-valkyrie-profile) | \- | \-
 
 # Fire Weapons
 ## <img src="https://caelum.s-ul.eu/2p740des.png" width="25" alt="Fire"> Old Fire
@@ -392,6 +393,17 @@ EQ | Names
 <img src="https://raw.githubusercontent.com/caelumff/bdfeguides/master/icons/WHM2-15.jpg" width="60" alt="Book"> | <a href="list-weapons.md#-water-books">名探偵の秘密道具</a><br>Famous Detective's Secret Tool
 <img src="https://raw.githubusercontent.com/caelumff/bdfeguides/master/icons/THF2-15.jpg" width="60" alt="Dagger"> | <a href="list-weapons.md#-water-daggers">真実追及のダブル―ぺ</a><br>Truth-pursuing Magnifying Glass
 <img src="https://raw.githubusercontent.com/caelumff/bdfeguides/master/icons/RNG2-15.jpg" width="60" alt="Bow"> | <a href="list-weapons.md#-water-bows">弓状手錠</a><br>Bow-shaped Handcuffs
+
+## <img src="https://caelum.s-ul.eu/Ei5MWQfu.png" width="25" alt="Water"> One Thousand and One Nights
+**Slot: 2**<br>The series are derived from Middle Eastern folk tales, particularly Aladdin.<br>Weapon Names: "Three Wishes" *something*
+
+EQ | Names
+:-:|---
+<img src="https://raw.githubusercontent.com/caelumff/bdfeguides/master/icons/KNG2-16.jpg" width="60" alt="Sword"> | <a href="list-weapons.md#-water-swords">三願の大剣</a>
+<img src="https://raw.githubusercontent.com/caelumff/bdfeguides/master/icons/BLM2-16.jpg" width="60" alt="Rod"> | <a href="list-weapons.md#-water-rods">三願の杖</a>
+<img src="https://raw.githubusercontent.com/caelumff/bdfeguides/master/icons/WHM2-16.jpg" width="60" alt="Book"> | <a href="list-weapons.md#-water-books">三願の物語</a>
+<img src="https://raw.githubusercontent.com/caelumff/bdfeguides/master/icons/THF2-16.jpg" width="60" alt="Dagger"> | <a href="list-weapons.md#-water-daggers">三願の双剣</a>
+<img src="https://raw.githubusercontent.com/caelumff/bdfeguides/master/icons/RNG2-16.jpg" width="60" alt="Bow"> | <a href="list-weapons.md#-water-bows">三願の弓</a>
 
 ## <img src="https://caelum.s-ul.eu/Ei5MWQfu.png" width="25" alt="Water"> Valkyrie Profile
 **[LIMITED]**<br>**Slot: 1**
